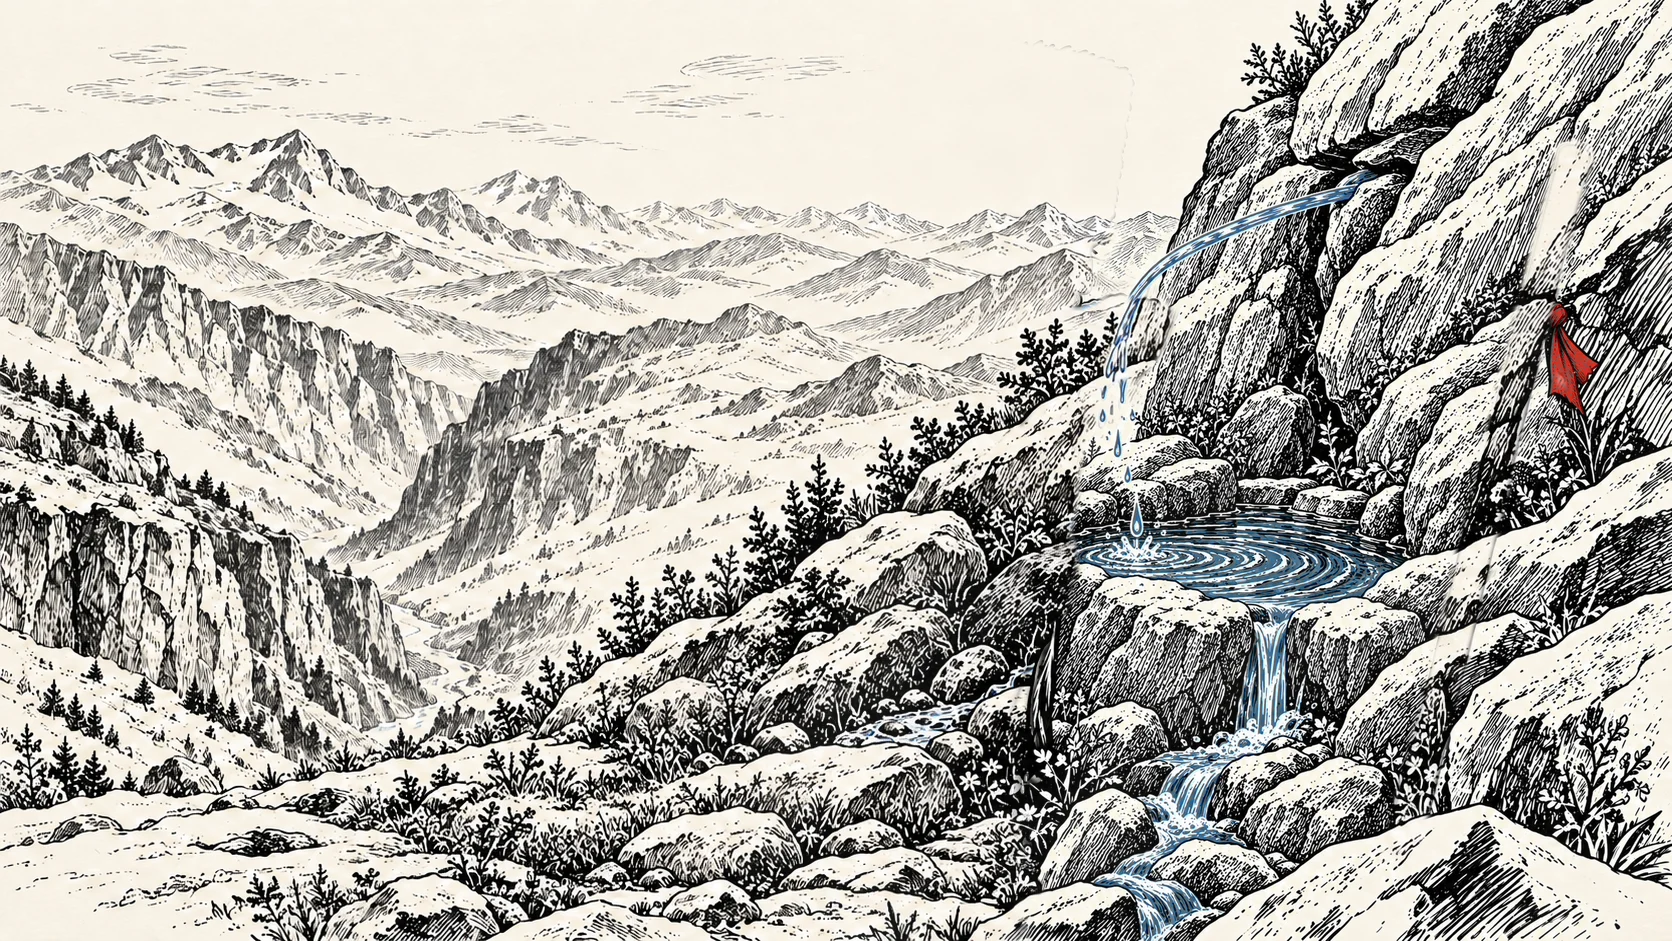
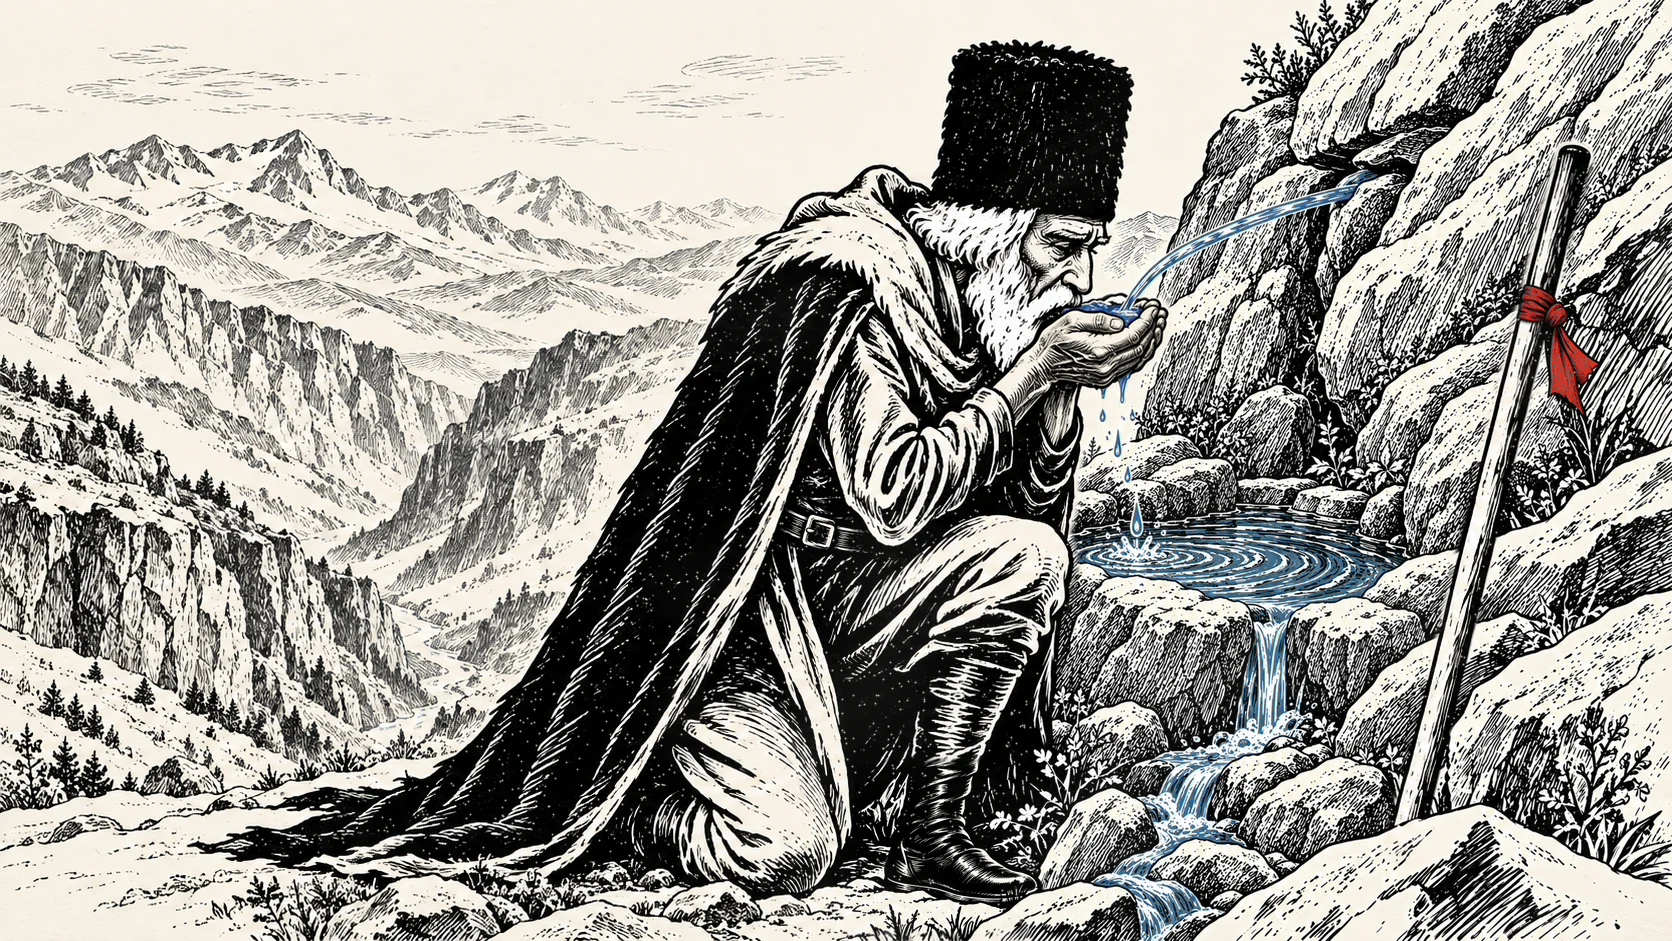
АЯРА: пьющий без разрыва

Changed region(s): [[0.0, 0.0308, 0.7153, 1.0], [0.8086, 0.1541, 0.9641, 0.8937], [0.0933, 0.0616, 0.1244, 0.0925]]

diff --git a/js/main.js b/js/main.js
@@ -171,7 +171,7 @@ window.GI_BRAND = {
     var ky = keys[3] ? world(keys[3]).y : 0;           // глоток: камера дошла или проскочила остановку за кадр
     if (!gulpDone && !reduce && keys[3] && Math.round(f) === 3 && cam.vy > 0 && (Math.abs(cam.y - ky) < 0.02 * FH || (oy - ky) * (cam.y - ky) < 0)) {
       gulpDone = true;
-      var pf = FRAMES[2], wx = 0.66, wy = pf.y + (1 - 0.33) * FH;     // ладони старика в кадре питья (доли кадра)
+      var pf = FRAMES[2], wx = 0.68, wy = pf.y + (1 - 0.62) * FH;     // чаша под ладонями: круги от капель — по воде, не по лицу
       gulp(W / 2 + (wx - cam.x) * U * W / (w * U), H / 2 + (top(wy) - top(cam.y)) * W / (w * U));
     }
     var tf = "translate3d(" + (W / 2 - cam.x * U * z).toFixed(1) + "px," + (H / 2 - top(cam.y) * z).toFixed(1) + "px,0) scale(" + z.toFixed(5) + ")";

diff --git a/css/style.css b/css/style.css
@@ -202,7 +202,7 @@ html:not(.js) .hero{position:relative;left:auto;right:auto;top:auto;bottom:auto;
 .gulp.is-on i:nth-child(2){animation-delay:.15s}
 .gulp.is-on i:nth-child(3){animation-delay:.3s}
 @keyframes gulpFade{0%{opacity:0}12%{opacity:1}100%{opacity:0}}
-@keyframes gulpRing{0%{opacity:.8;transform:scale(.2)}100%{opacity:0;transform:scale(4)}}
+@keyframes gulpRing{0%{opacity:.5;transform:scale(.2,.08)}100%{opacity:0;transform:scale(3,1.1)}}
 
 /* ---------- кнопка звука ---------- */
 .sound{position:fixed;z-index:41;left:calc(var(--gut) + 8px);bottom:22px;display:flex;align-items:center;gap:8px;padding:8px 12px;background:var(--paper);color:var(--ink);border:1.5px solid var(--ink);font:700 .66rem/1 var(--sans);letter-spacing:.18em;text-transform:uppercase;cursor:pointer}

diff --git a/js/live.js b/js/live.js
@@ -22,7 +22,7 @@
     { birds: 2, dir: 1 },
     { birds: 3, dir: -1, pool: [0.79, 0.65, 0.095, 0.04], drops: [[0.80, 0.62, 0.045, -0.04], [0.80, 0.62, 0.028, -0.028]] }
   ];
-  var FIG = [false, true, true, true, false, false];   // кадр 5 (помолодевший) — целиком: перерисованный человек не совпадает со старой маской, слой двоил папаху
+  var FIG = [false, true, false, true, false, false];   // кадр 5 (помолодевший) — целиком: перерисованный человек не совпадает со старой маской, слой двоил папаху
 
   function load(src, cb) {
     var s = document.createElement("script");
